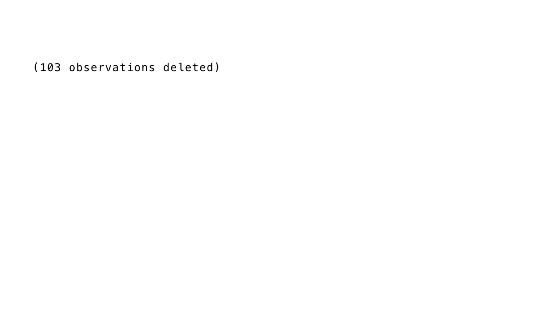
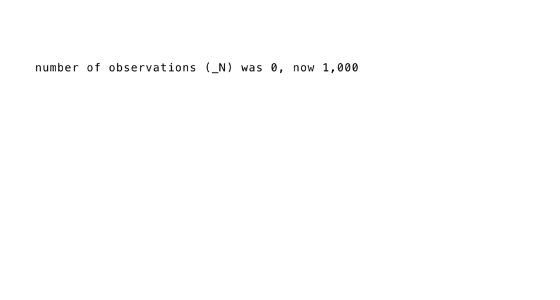
update

Changed region(s): [[0.0607, 0.18, 0.6375, 0.24]]

diff --git a/TeoremaFWL.html b/TeoremaFWL.html
@@ -14,12 +14,19 @@
 			<section id="header">
 				<div class="inner">
 					<span class="icon solid major fa-book-reader"></span>
-					<h1>Teorema <br /><strong>Frish Waugh Lovell</strong>
+					<h1>Teorema <br /><strong>Frisch Waugh Lovell</strong>
 					</h1>
 					<p>Pontificia Universidad Javeriana</p>
 
 				</div>
 			</section>
+			<script src="https://polyfill.io/v3/polyfill.min.js?features=es6"></script>
+			<script>
+			MathJax = {
+				tex: {inlineMath: [['$', '$'], ['\\(', '\\)']]}
+			};
+			</script>
+			<script id="MathJax-script" async src="https://cdn.jsdelivr.net/npm/mathjax@3/es5/tex-chtml.js"></script>
 
 		<!-- One -->
 			<section id="one" class="main style1">
@@ -31,14 +38,14 @@
 								Frisch Waugh Lovell</h2>
 							</header>
 							</div>
-							<script src='https://cdnjs.cloudflare.com/ajax/libs/mathjax/2.7.4/MathJax.js?config=default'></script>
 
-							<p>Considere el modelo  $$ {Y = X_{1}\beta_{1} + X_{2}\beta_{2} +\epsilon }$$ donde X<sub>1</sub> y X<sub>2</sub> pueden ser matrices o vectores. Según el teorema de Frisch Waugh, el vector de coeficientes β<sub>1</sub> puede estimarse corriendo los residuos de una regresión de
-Y contra todas las variables de X<sub>2</sub> , contra los residuos de una regresión de cada variable X<sub>1</sub> contra todas las variables de X<sub>2</sub> . Este procedimiento arroja
-&beta;&#770; gorro y ε&#770; gorro correctos. También se puede correr Y directamente contra los residuos de una regresión de cada variable X<sub>1</sub> contra todas las variables de X<sub>2</sub> ; en este caso, la estimación para β<sub>1</sub> será correcta pero no los residuos ε gorro. Igual para β<sub>2</sub><sup>1</sup>.
+							<p>Considere el modelo  $ Y = X_{1}\beta_{1} + X_{2}\beta_{2} +\epsilon  $ donde  $ X_{1} $ y $ X_{2} $ pueden ser matrices o vectores. Según el teorema de Frisch Waugh, el vector de coeficientes $ \beta_{1} $ puede estimarse corriendo los residuos de una regresión de
+Y contra todas las variables de $ X_{2} $ , contra los residuos de una regresión de cada variable $ X_{1} $ contra todas las variables de $ X_{2} $ . Este procedimiento arroja
+$ \hat{\beta} $ y $ \hat{\epsilon} $  correctos. También se puede correr $ Y $ directamente contra los residuos de una regresión de cada variable $ X_{1} $ contra todas las variables de $ X_{2} $ ; en este caso, la estimación para $ \beta_{1} $ será correcta pero no los residuos ε gorro. Igual para $ \beta_{2} $<sup>1</sup>.
 
 
 						</p>
+						<p>Veamoslo en Stata:</p>
 
 
 						<div class="col-6 col-12-medium imp-medium">
@@ -47,18 +54,17 @@ Y contra todas las variables de X<sub>2</sub> , contra los residuos de una regre
 				</div>
 
 				<div class="container">
+					<p>Primero debemos crear nuestras variable asegurandonos que exista una correlacion entre $ X_{1} $ y $ X_{2} $.</p>
+
 					<div class="row gtr-150">
 						<div class="col-6 col-12-medium">
-
 						<pre><code>
 
-<strong style="color:blue">use </strong> BaseLimpia.dta
-
-<strong style="color:blue">global </strong>varlist mage meduc npvis fage feduc male mblck
-
-<strong style="color:blue">drop if </strong>mage>=. | meduc >=. | npvis>=. | fage>=. | feduc>=. | male>=. | mblck>=.
-
-<strong style="color:blue">gen </strong> constante=1
+<strong style="color:blue">clear</strong>
+<strong style="color:blue">set</strong> seed 21008
+<strong style="color:blue">set</strong> obs 1000
+<strong style="color:blue">gen</strong> x1 = rnormal()
+<strong style="color:blue">gen</strong> x2 = rnormal() + 0.2*x1
 
 						</code></pre>
 
@@ -70,18 +76,13 @@ Y contra todas las variables de X<sub>2</sub> , contra los residuos de una regre
 				</div>
 
 				<div class="container">
+					<p>Proceso generador de datos para y.</p>
+
 					<div class="row gtr-150">
 						<div class="col-6 col-12-medium">
 
-						<pre><code><strong style="color:blue">mata:</strong>
+						<pre><code><strong style="color:blue">gen</strong> y = 4 + x1 + 5*x2 + rnormal()
 
-X=st_data(.,("constante","mage", "meduc", "npvis", "fage", "feduc","male","mblck"))
-
-Y=st_data(.,("lbwght"))
-
-Betagorro=invsym(X'*X)*X'*Y
-
-Betagorro
 
 </code></pre>
 
@@ -89,21 +90,23 @@ Betagorro
 
 
 						<div class="col-6 col-12-medium imp-medium">
-							<span class="image fit"><img src="images/FWL2.jpg" alt="" /></span>
+
 						</div>
 					</div>
+					<p>Ahora hay que realizar la regresion de $ y $ en $ x_{2} $ y de $ x_{1} $ en $ x_{2} $ para luego obtener los residuos.</p>
 
 					<div class="row gtr-150">
 						<div class="col-6 col-12-medium">
+<div></div>
+<h1></h1>
 
-						<pre><code><strong style="color:blue">mata:</strong>
-X=st_data(.,("constante","mage", "meduc", "npvis", "fage", "feduc","male","mblck"))
 
-Y=st_data(.,("lbwght"))
+						<pre><code>
+<strong style="color:blue">reg</strong> x1 x2
+<strong style="color:blue">predict</strong> resid_x1, res
 
-Betagorro=invsym(X'*X)*X'*Y
-
-Betagorro
+<strong style="color:blue">reg</strong> y x2
+<strong style="color:blue">predict</strong> resid_y, res
 
 				</code></pre>
 
@@ -111,9 +114,41 @@ Betagorro
 
 
 						<div class="col-6 col-12-medium imp-medium">
-							<span class="image fit"><img src="images/FWL2.jpg" alt="" /></span>
+							<span class="image fit"><img src="images/FWL2.png" alt="" /></span>
 						</div>
 					</div>
+
+
+					<p>Por ultimo realizaremos la regresion de los residuos obtenidos anteriormente y la regresion usual por MCO para comprobar si nuestro estimador $ \beta_{1} $ es igual.</p>
+
+					<div class="row gtr-150">
+						<div class="col-6 col-12-medium">
+
+<div></div>
+<h1></h1>						<pre><code>
+
+<strong style="color:blue">reg</strong> resid_y resid_x1
+
+outreg2 using myreg.doc, replace ctitle(Modelo FWL)
+
+<strong style="color:blue">reg</strong> y x1 x2
+
+outreg2 using myreg.doc, append ctitle(Modelo Correcto)
+					</code></pre>
+
+						</div>
+
+
+						<div class="col-6 col-12-medium imp-medium">
+							<span class="image fit"><img src="images/FWL3.png" alt="" /></span>
+						</div>
+					</div>
+
+<p>En conclusion gracias al teorema FWL el coeficiente que obtenemos para un modelo de regresion múltiple es igual al coeficiente del modelo de regresión simple si se "elimina" la influencia de los otros regresores.
+</p>
+
+
+
 				</div>
 
 			</section>
